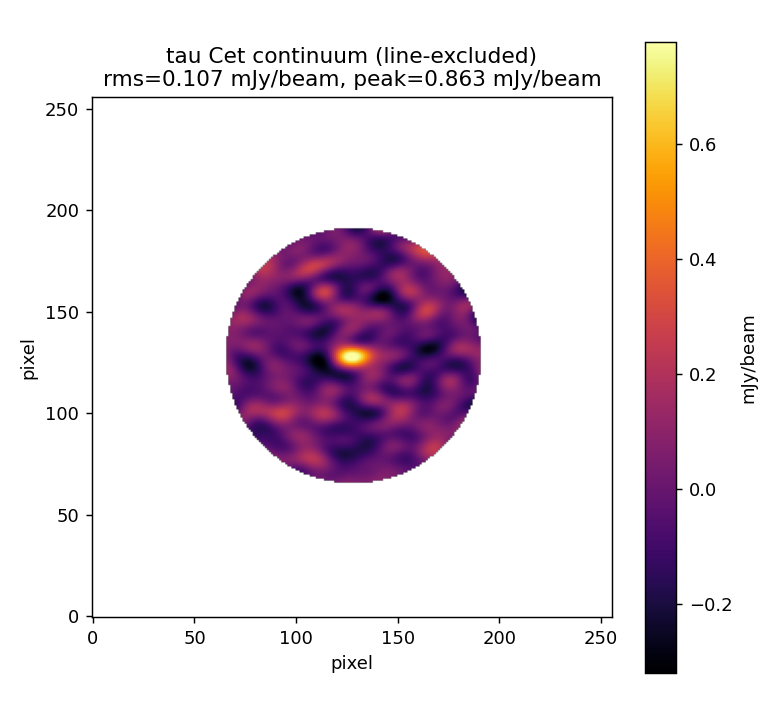
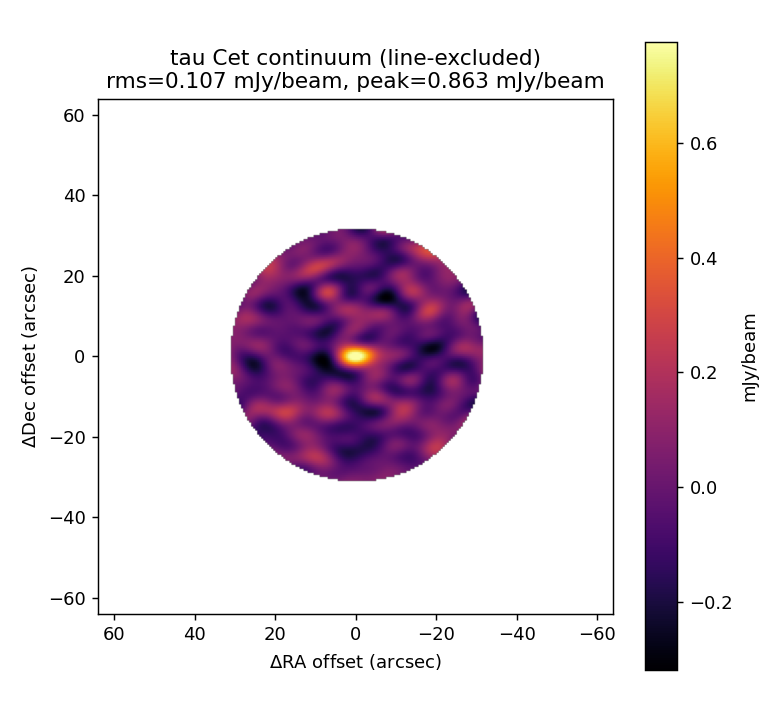
Relabel tau Cet continuum map axes in arcsec (was pixels)
Per Glenn's request: continuum map PNGs should show offset in arcsec from
the pointing centre (standard RA-East-left convention), not pixel index.
Fixed in continuum_map_generic.py for all future targets; regenerated the
existing tau Cet PNG directly from its already-produced FITS file (no
re-imaging needed). Also documents disk-space fix made in the same pass:
seti_drift_search_generic.py now deletes each target's raw waterfall
array (GB-scale) immediately after the drift search consumes it, instead
of letting it accumulate in products/ across all 100 targets.

diff --git a/search/README.md b/search/README.md
@@ -17,7 +17,9 @@ For each completed target, the subdirectory contains:
   Line identification is a data-driven outlier search (>5σ above a
   median-filtered local baseline) on a cheap single-position spectrum —
   any exclusions made are documented, with distances to known bright
-  mm-wave transitions, in `continuum_notes.txt`.
+  mm-wave transitions, in `continuum_notes.txt`. PNG axes are labelled in
+  arcsec offset from the pointing/phase centre (standard RA-East-left
+  convention), not pixels.
 - `continuum_notes.txt` — which channels (if any) were excluded and why,
   plus the map's rms/peak flux density.
 - `drift_search_result.json` — the narrowband Doppler-drift technosignature
